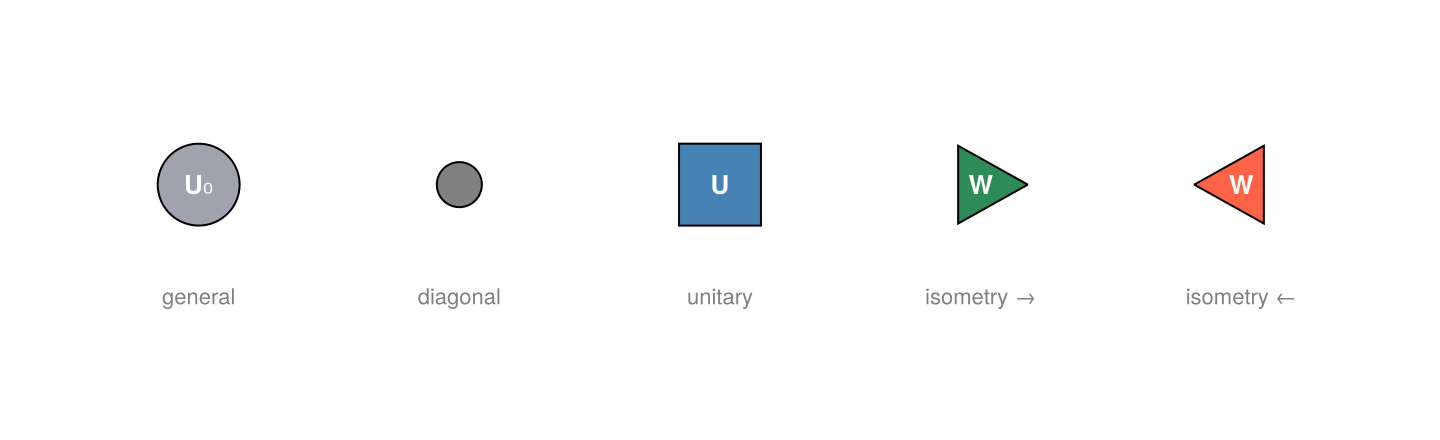
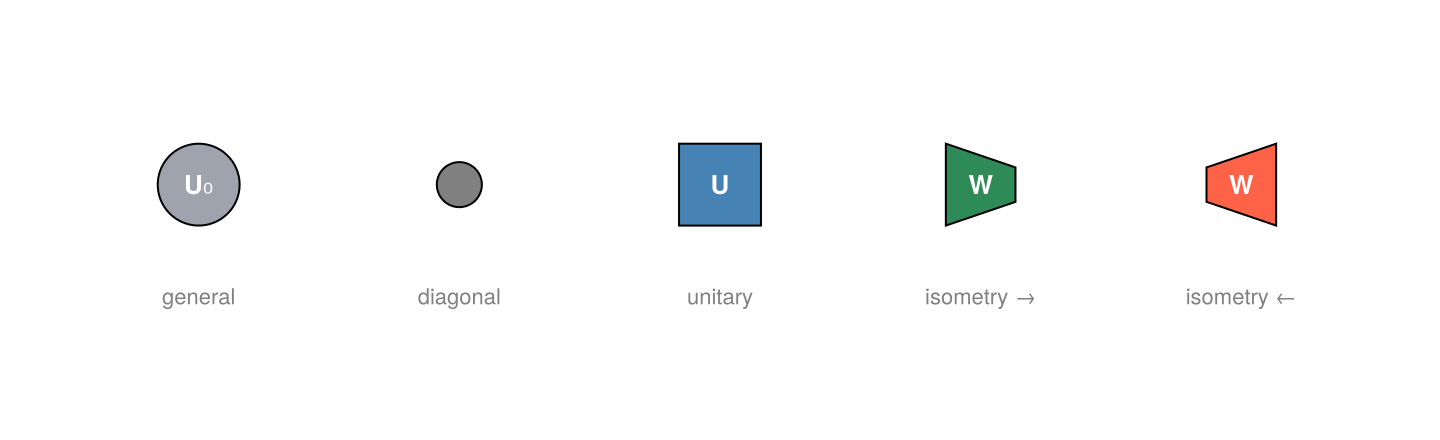
fix: draw isometries as trapezoids, not triangles
tensors.net draws an isometry as a wedge contracted 'along the base' — a
trapezoid with a wide base (larger index) tapering to a narrow but flat top
(smaller index). A triangle was wrong: tapering to a point implies the
contracted index has dimension one. Updates the shape geometry, docstrings,
and GS-3 tutorial accordingly.

Changed region(s): [[0.8125, 0.325, 0.9062, 0.5318], [0.6562, 0.325, 0.7188, 0.5318]]

diff --git a/docs/src/getting_started/gs3_drawing_tensor_networks.md b/docs/src/getting_started/gs3_drawing_tensor_networks.md
@@ -171,11 +171,13 @@ itself carries meaning, so a diagram reads correctly even without labels.
 | `:general`  | circle    | a generic tensor, no special structure |
 | `:diagonal` | small dot | diagonal (e.g. a singular-value spectrum) |
 | `:unitary`  | square    | ``U`` with ``UU^\dagger = U^\dagger U = I`` |
-| `:isometry` | wedge     | ``W`` with ``W^\dagger W = I``; the apex points toward the *contracted* (smaller) side |
+| `:isometry` | trapezoid | ``W`` with ``W^\dagger W = I``; the wide base is the larger index, tapering to a narrow top on the *contracted* (smaller) side |
 
-The wedge is the interesting one: point it with `rotation` (radians), and
-stacking two mirrored wedges base-to-base is exactly the picture of
-``W^\dagger W`` collapsing to the identity.
+The trapezoid is the interesting one: its narrow end points (via `rotation`,
+in radians) toward the smaller index, so stacking two mirrored wedges
+base-to-base is exactly the picture of ``W^\dagger W`` collapsing to the
+identity — the isometry never tapers to a point, since that would mean the
+contracted index has dimension one.
 
 ````julia
 s = schematic(; figure_kw=(size=(720, 220),))
@@ -208,7 +210,7 @@ updates at each step.
 ````julia
 s = schematic(; figure_kw=(size=(820, 300),))
 site_shapes    = [:isometry, :isometry, :general, :isometry, :isometry]
-site_rotations = [0.0, 0.0, 0.0, π, π]      # left-canonical → apex right, right-canonical → apex left
+site_rotations = [0.0, 0.0, 0.0, π, π]      # left-canonical → narrow end right, right-canonical → narrow end left
 colors         = [:steelblue, :steelblue, :tomato, :seagreen, :seagreen]
 for i in 1:5
     tensor!(s, Symbol(:m, i), (i - 1, 0);
